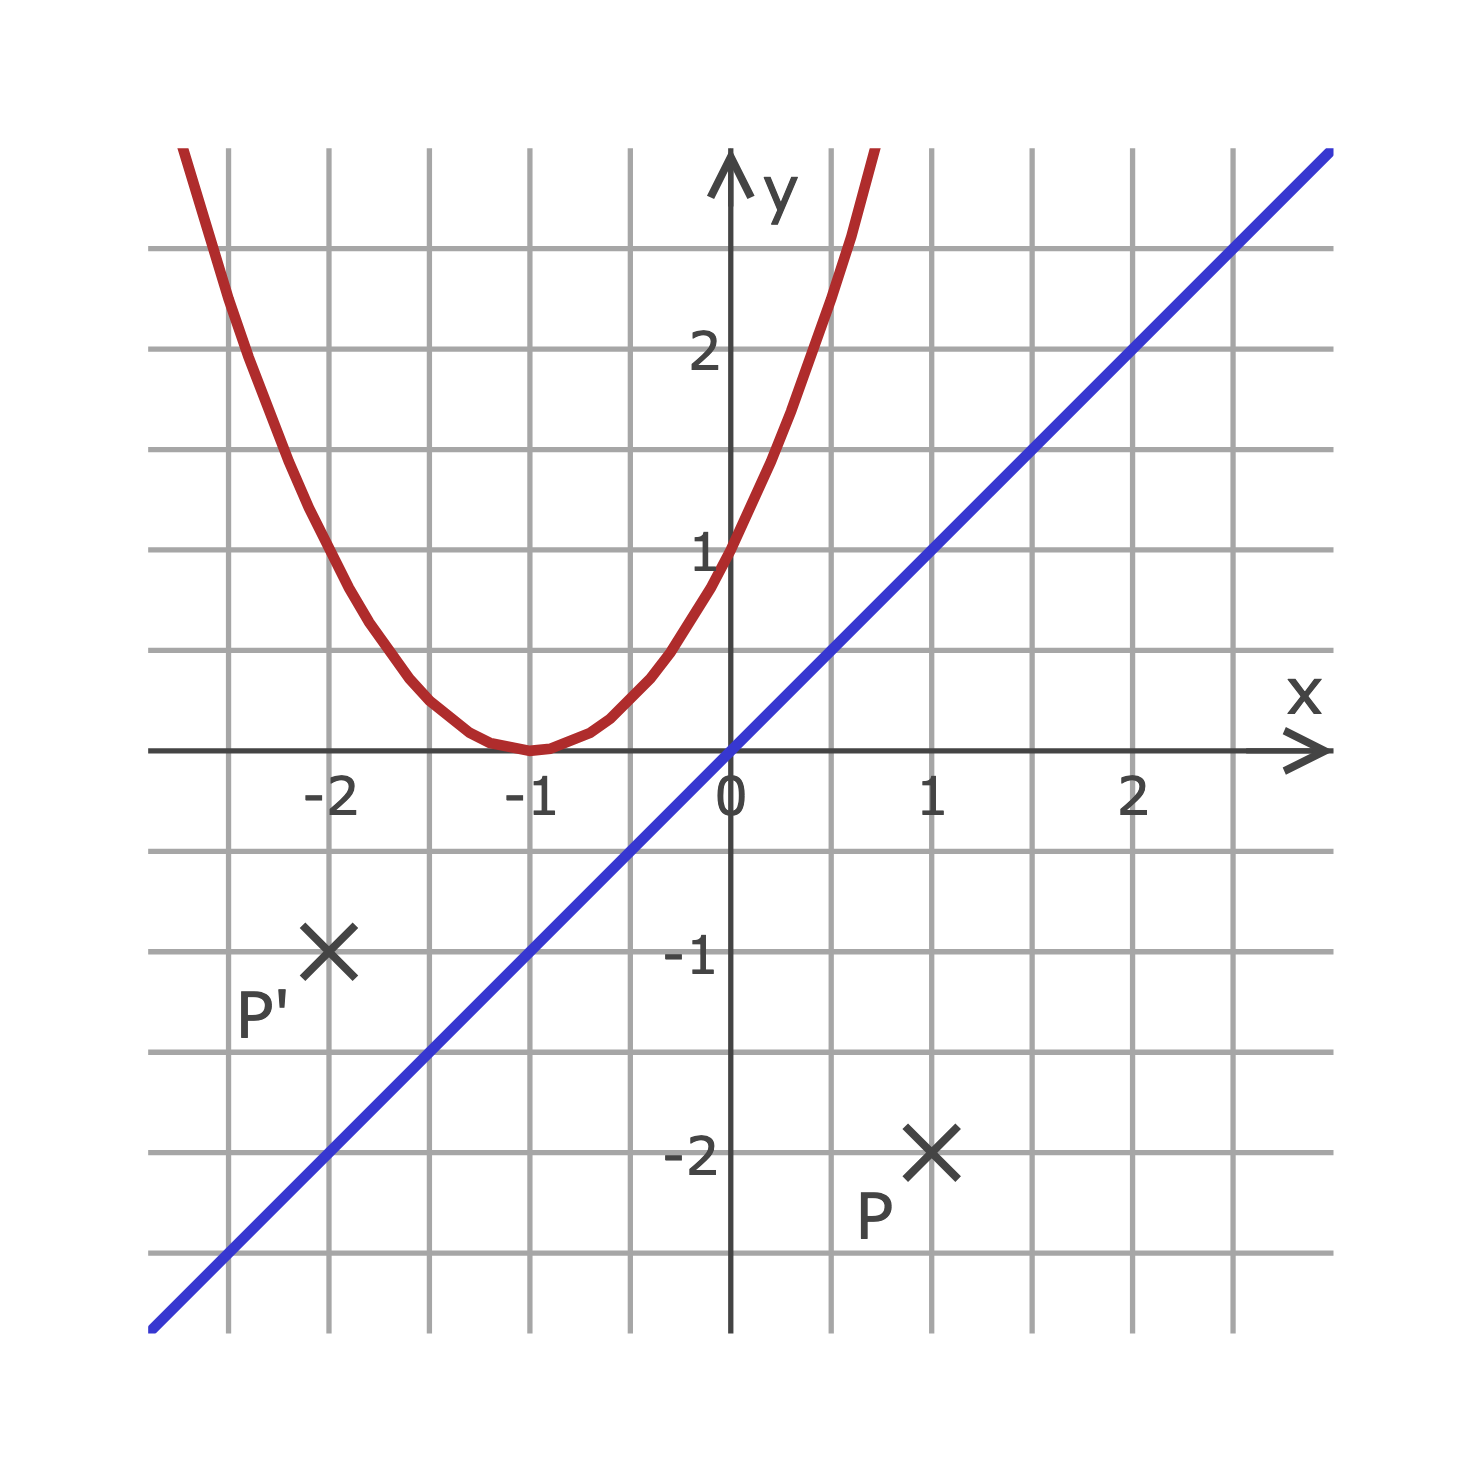
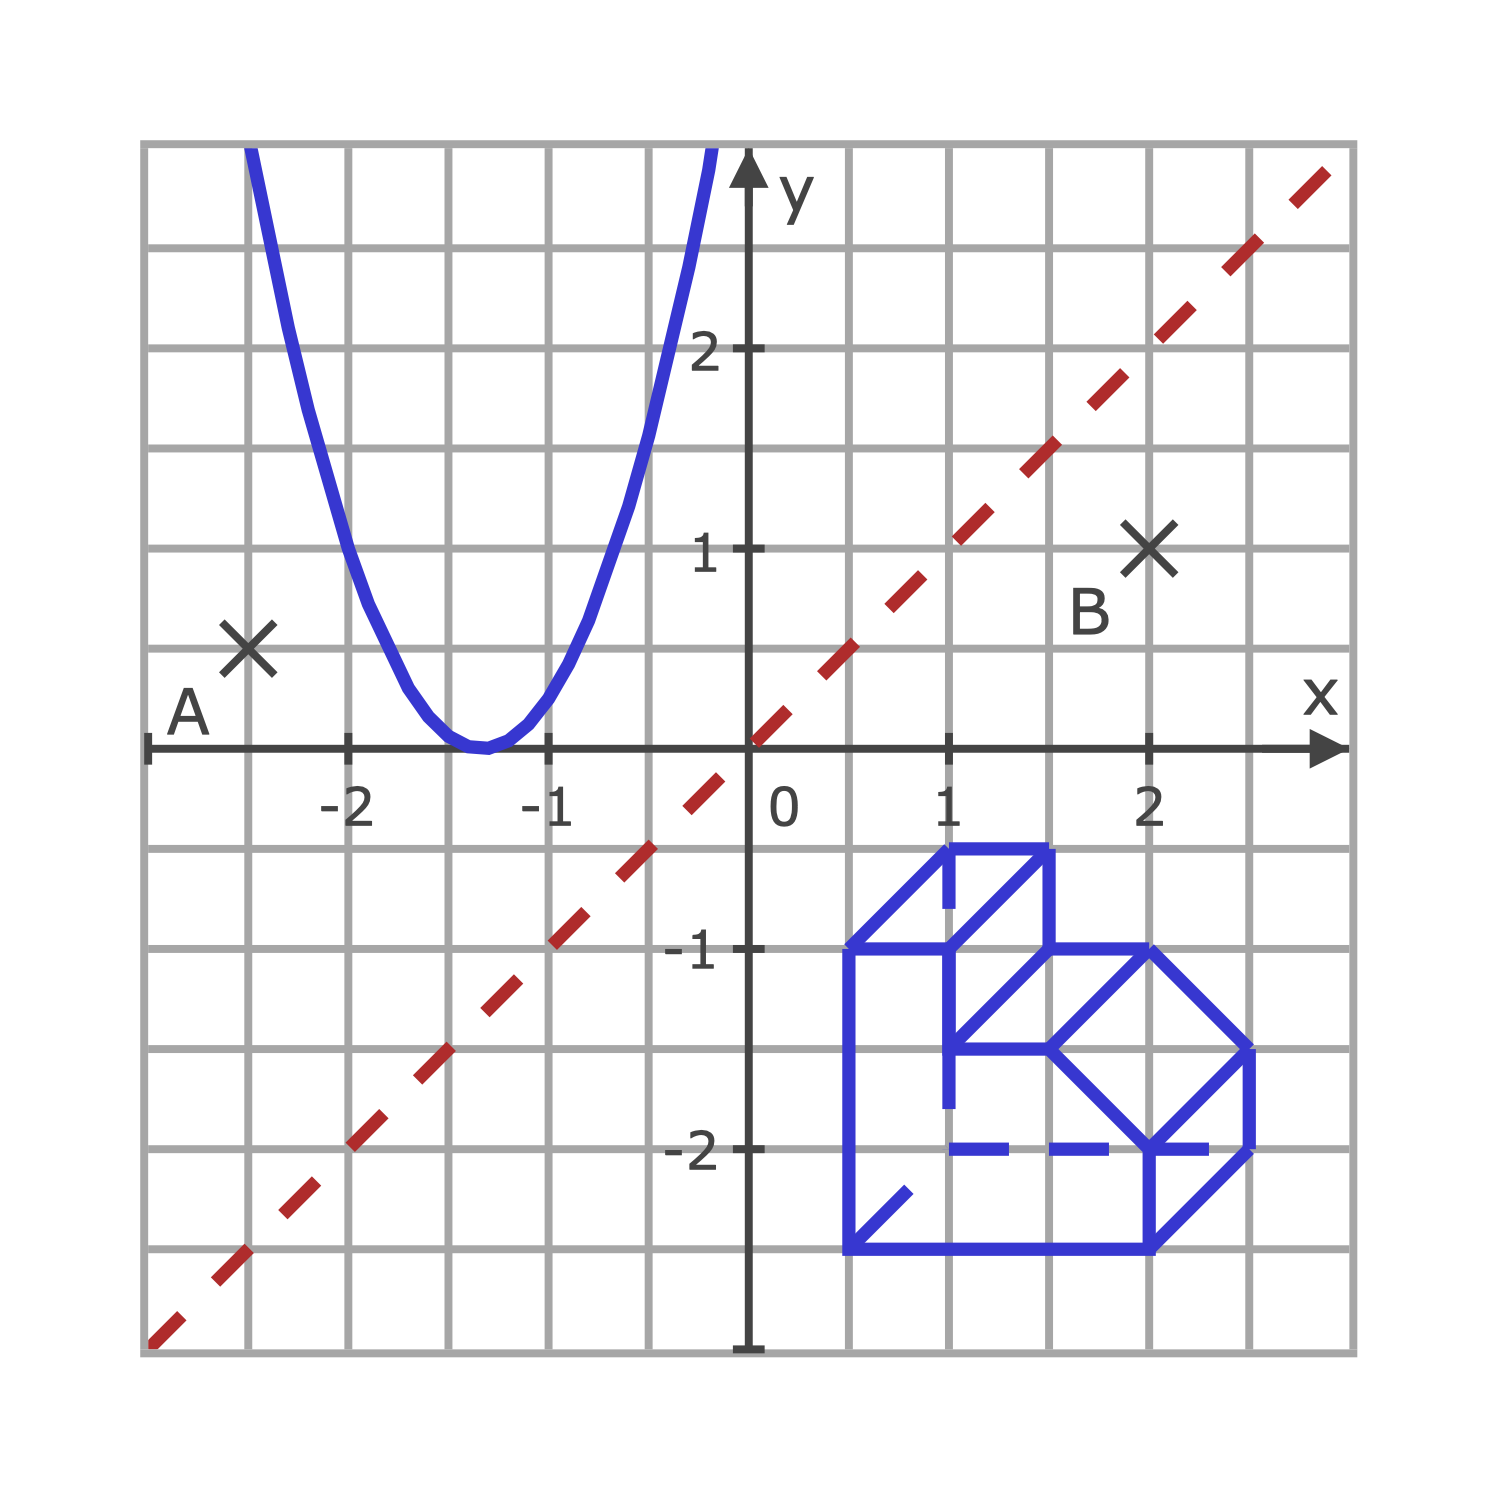
feat: improve images

Changed region(s): [[0.0932, 0.0932, 0.9324, 0.9324]]

diff --git a/README.md b/README.md
@@ -53,3 +53,7 @@ You can start the development server for the website with `npm run start:website
 There's an environment variable `LEHRGRAPHT_WEBSITE_GITHUB_TOKEN`.
 You don't need to provide a value for it.
 If it's set with the correct permissions it will grab a list of issues from GitHub and displays it as a roadmap.
+
+## Icon Generation
+
+Use [SVG to PNG](https://vincerubinetti.github.io/svg-to-png/) for converting the SVG files to PNG.